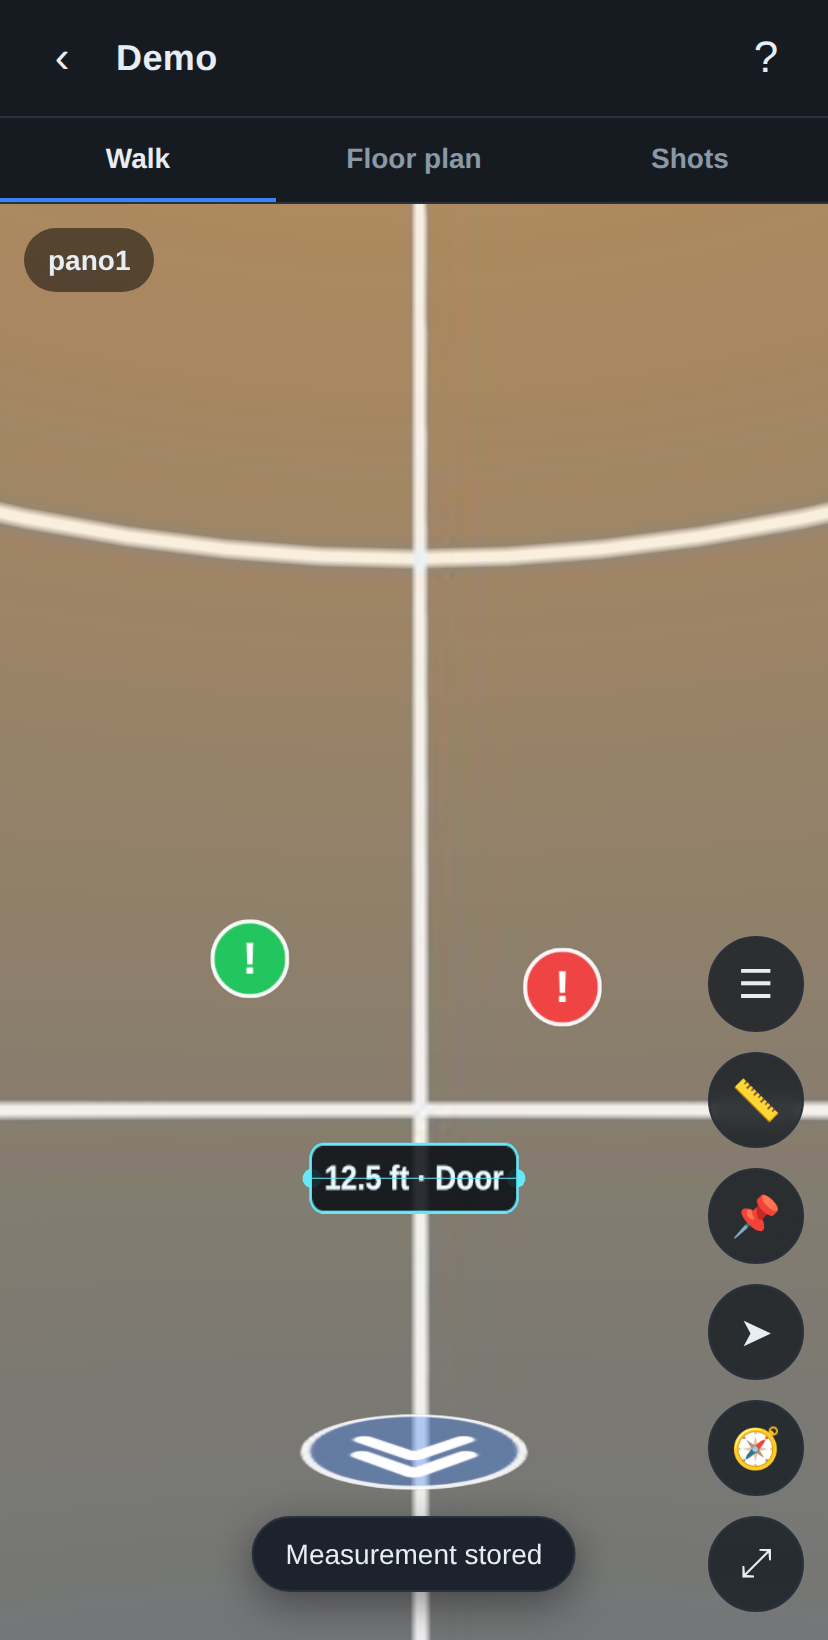
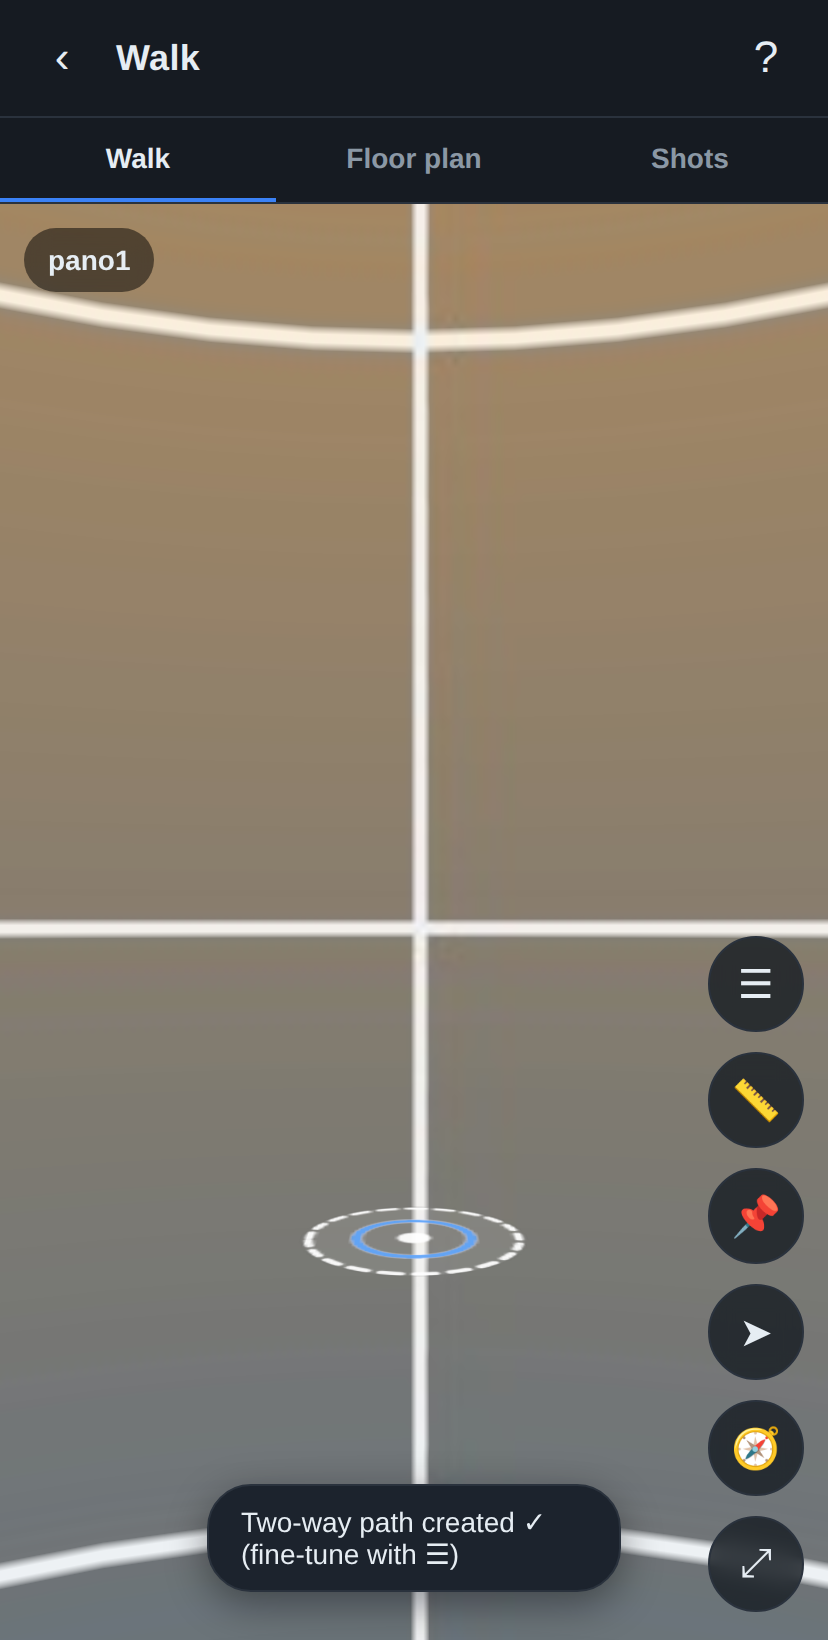
Street-View-style walk: floor reticle + glide transitions
Make the walkthrough feel like the panorama mode in the reference:
- Navigation markers are now round floor "reticles" (dashed outer ring,
  solid blue inner ring, center dot) lying flat on the ground — a clear
  "move here" target, replacing the chevron arrows.
- Tapping a target (and the Back button) now glides to the next spot:
  a quick zoom toward the travel direction + fade to black, swap the
  panorama, then settle in slightly wide — instead of a hard cut.
- Implemented with a per-frame FOV/look tween in the viewer and a CSS
  fade overlay; only runs while actively walking (tour view).
- Help/README wording updated (arrows → floor targets); cache bumped v5.

Verified in headless Chromium: reticle renders on the floor, tapping it
transitions pano1→pano2 (fade reaches full black mid-move), Back
transitions pano2→pano1, no console errors.

Claude-Session: https://claude.ai/code/session_01UnYwW7nPprTG8GZMU1x3z3

diff --git a/js/viewer.js b/js/viewer.js
@@ -76,10 +76,47 @@ export class PanoramaViewer {
     this._gyroEnabled = false;
     this._gyroQuat = new THREE.Quaternion();
 
+    // Fade overlay for Street-View-style move transitions.
+    this._fadeEl = document.createElement('div');
+    Object.assign(this._fadeEl.style, {
+      position: 'absolute', inset: '0', background: '#000', opacity: '0',
+      pointerEvents: 'none', transition: 'opacity 260ms ease', zIndex: '5',
+    });
+    if (this.canvas.parentElement) this.canvas.parentElement.appendChild(this._fadeEl);
+    this._tween = null;
+
     this._bindInput();
     this._resize();
     this._running = false;
     window.addEventListener('resize', () => this._resize());
+  }
+
+  /* ---- Street-View-style move transition ---- */
+  _fade(to) { if (this._fadeEl) this._fadeEl.style.opacity = String(to); }
+
+  // Zoom toward the travel direction + fade to black. Resolves when dark.
+  moveOut(yaw, pitch) {
+    const yawTo = this.yaw + shortestAngle(this.yaw, yaw);
+    this._fade(1);
+    return new Promise((resolve) => {
+      this._tween = { fovFrom: this.fov, fovTo: 36, yawFrom: this.yaw, yawTo,
+        pitchFrom: this.pitch, pitchTo: pitch, t0: performance.now(), dur: 300 };
+      setTimeout(() => {
+        this.fov = 36; this.camera.fov = 36; this.camera.updateProjectionMatrix();
+        this._tween = null; resolve();
+      }, 300);
+    });
+  }
+  // Arrive slightly wide, settle to normal, and fade back in.
+  moveIn() {
+    this.fov = 86; this.camera.fov = 86; this.camera.updateProjectionMatrix();
+    this._tween = { fovFrom: 86, fovTo: 70, yawFrom: this.yaw, yawTo: this.yaw,
+      pitchFrom: this.pitch, pitchTo: this.pitch, t0: performance.now(), dur: 340 };
+    this._fade(0);
+    setTimeout(() => {
+      this.fov = 70; this.camera.fov = 70; this.camera.updateProjectionMatrix();
+      this._tween = null;
+    }, 350);
   }
 
   /* -------------------- lifecycle -------------------- */
@@ -176,24 +213,35 @@ export class PanoramaViewer {
   }
 
   _navTexture() {
-    const s = 256;
+    // Street-View-style floor reticle: a dashed outer ring, a solid inner
+    // ring, and a center dot — reads as a "move here" target on the ground.
+    const s = 256, cx = s / 2, cy = s / 2;
     const c = document.createElement('canvas'); c.width = c.height = s;
     const ctx = c.getContext('2d');
     ctx.clearRect(0, 0, s, s);
-    // soft ring
-    ctx.beginPath(); ctx.arc(s/2, s/2, s*0.42, 0, Math.PI*2);
-    ctx.fillStyle = 'rgba(59,130,246,0.35)'; ctx.fill();
-    ctx.lineWidth = 10; ctx.strokeStyle = 'rgba(255,255,255,0.9)'; ctx.stroke();
-    // double chevron pointing "up" in texture (=> outward along yaw)
-    ctx.strokeStyle = '#fff'; ctx.lineWidth = 22; ctx.lineCap = 'round'; ctx.lineJoin = 'round';
-    for (let i = 0; i < 2; i++) {
-      const off = i * 46;
-      ctx.beginPath();
-      ctx.moveTo(s*0.30, s*0.60 - off);
-      ctx.lineTo(s*0.50, s*0.40 - off);
-      ctx.lineTo(s*0.70, s*0.60 - off);
-      ctx.stroke();
-    }
+    ctx.lineCap = 'round';
+
+    // faint filled disc for presence on busy floors
+    ctx.beginPath(); ctx.arc(cx, cy, s * 0.46, 0, Math.PI * 2);
+    ctx.fillStyle = 'rgba(255,255,255,0.08)'; ctx.fill();
+
+    // dashed outer ring
+    ctx.save();
+    ctx.setLineDash([18, 16]);
+    ctx.lineWidth = 10;
+    ctx.strokeStyle = 'rgba(255,255,255,0.95)';
+    ctx.beginPath(); ctx.arc(cx, cy, s * 0.44, 0, Math.PI * 2); ctx.stroke();
+    ctx.restore();
+
+    // solid inner ring (slight blue)
+    ctx.lineWidth = 12;
+    ctx.strokeStyle = 'rgba(96,165,250,0.95)';
+    ctx.beginPath(); ctx.arc(cx, cy, s * 0.24, 0, Math.PI * 2); ctx.stroke();
+
+    // center dot
+    ctx.beginPath(); ctx.arc(cx, cy, s * 0.07, 0, Math.PI * 2);
+    ctx.fillStyle = 'rgba(255,255,255,0.95)'; ctx.fill();
+
     const t = new THREE.CanvasTexture(c); t.colorSpace = THREE.SRGBColorSpace;
     return t;
   }
@@ -449,6 +497,17 @@ export class PanoramaViewer {
   }
 
   _update() {
+    if (this._tween) {
+      const tw = this._tween;
+      const k = Math.min(1, (performance.now() - tw.t0) / tw.dur);
+      const e = k < 0.5 ? 2 * k * k : 1 - Math.pow(-2 * k + 2, 2) / 2; // easeInOut
+      this.fov = lerp(tw.fovFrom, tw.fovTo, e);
+      if (!this._gyroEnabled) {
+        this.yaw = lerp(tw.yawFrom, tw.yawTo, e);
+        this.pitch = lerp(tw.pitchFrom, tw.pitchTo, e);
+      }
+      this.camera.fov = this.fov; this.camera.updateProjectionMatrix();
+    }
     if (this._gyroEnabled) this.camera.quaternion.copy(this._gyroQuat);
     else this.camera.lookAt(dirFromYawPitch(this.yaw, this.pitch));
   }
@@ -460,6 +519,14 @@ export class PanoramaViewer {
     if (this.currentTexture) this.currentTexture.dispose();
     this.renderer.dispose();
   }
+}
+
+function lerp(a, b, t) { return a + (b - a) * t; }
+function shortestAngle(from, to) {
+  let d = (to - from) % (Math.PI * 2);
+  if (d > Math.PI) d -= Math.PI * 2;
+  if (d < -Math.PI) d += Math.PI * 2;
+  return d;
 }
 
 function roundRect(ctx, x, y, w, h, r) {

diff --git a/js/ui.js b/js/ui.js
@@ -97,10 +97,10 @@ export function showHelp() {
       <p><strong>1. Shoot your 360s.</strong> Use the Insta360 app to capture each spot. Stand in the middle of a room or hallway, one shot every few metres.</p>
       <p><strong>2. Export as equirectangular.</strong> In the Insta360 app, export/share each shot as a flat <em>equirectangular</em> photo (the 2:1 "stretched" image) to your phone's photos.</p>
       <p><strong>3. Import here.</strong> Open a tour → <em>Shots</em> → <strong>+</strong>, and pick the photos (several at once is fine).</p>
-      <p><strong>4. Connect the walk (two-way).</strong> In a shot, tap <code>➤</code>, tap the floor toward a doorway, pick the shot through it, then turn to the view you'll see when you arrive and hit <em>✓ Set view</em>. SiteWalk creates the arrow <em>and</em> a matching arrow back. Tap a floor arrow to walk; tap <code>↩</code> (top-left) to step back.</p>
+      <p><strong>4. Connect the walk (two-way).</strong> In a shot, tap <code>➤</code>, tap the floor toward a doorway, pick the shot through it, then turn to the view you'll see when you arrive and hit <em>✓ Set view</em>. SiteWalk creates the path <em>and</em> a matching path back. A <strong>round target appears on the floor</strong> — tap it to glide forward into that spot; tap <code>↩</code> (top-left) to step back.</p>
       <p><strong>5. Notes with priority.</strong> Tap <code>📌</code>, place it, type the note and pick <span style="color:#ef4444">High</span> / <span style="color:#f59e0b">Medium</span> / <span style="color:#22c55e">Low</span> — the pin takes that color.</p>
       <p><strong>6. Measurements.</strong> Tap <code>📏</code>, tap the two ends of what you measured, and log the number + label. It's stored on the shot with a labeled line.</p>
-      <p><strong>7. Delete an arrow.</strong> Long-press a floor arrow to delete it (this direction, or both directions). You can also manage everything from <code>☰</code>.</p>
+      <p><strong>7. Delete a path.</strong> Long-press a floor target to delete it (this direction, or both directions). You can also manage everything from <code>☰</code>.</p>
       <p><strong>8. Manage a stop.</strong> Tap <code>☰</code> to edit/delete any arrow, note or measurement, or to re-set an arrow's arrival view.</p>
       <p><strong>9. Revise a photo.</strong> <em>Shots</em> → ⋮ on a shot → <em>Replace photo</em> keeps all its arrows, notes and floor-plan spot.</p>
       <p><strong>10. Floors.</strong> Use the floor tabs (bookmarks) on <em>Shots</em> and <em>Floor plan</em> to keep each level separate. Tap <em>＋ Floor</em> to add one, then import shots. When you have more than one floor, importing first asks <em>which floor</em> to put the photos on (defaulting to the one you're viewing), so levels never get mixed up. Give each floor its own plan image.</p>

diff --git a/js/app.js b/js/app.js
@@ -340,8 +340,15 @@ async function refreshCurrentScene(view) {
   if (state.tab === 'tour') viewer.start();
 }
 
-async function goToScene(id, view, { record = true } = {}) {
+async function goToScene(id, view, { record = true, transition = false, fromDir = null } = {}) {
   if (record && state.currentSceneId && state.currentSceneId !== id) state.history.push(state.currentSceneId);
+  // Street-View-style glide: zoom toward the travel direction and fade out
+  // before swapping the panorama, then settle in. Only when already walking.
+  const doTransition = transition && viewer && viewer._running && state.tab === 'tour';
+  if (doTransition) {
+    const look = viewer.getLook();
+    await viewer.moveOut(fromDir ? fromDir.yaw : look.yaw, fromDir ? fromDir.pitch : look.pitch);
+  }
   state.currentSceneId = id;
   state.selectedForMap = id;
   // Follow the shot to its floor so the map/grid context stays in sync.
@@ -354,13 +361,14 @@ async function goToScene(id, view, { record = true } = {}) {
   }
   await refreshCurrentScene(view);
   if (state.tab !== 'tour') switchTab('tour');
+  if (doTransition) viewer.moveIn();
   if (floorMap) floorMap.setSelected(id);
 }
 
 function navBack() {
   if (!state.history.length) return;
   const prev = state.history.pop();
-  goToScene(prev, undefined, { record: false });
+  goToScene(prev, undefined, { record: false, transition: true });
 }
 function updateBackButton() { el('btnNavBack').hidden = state.history.length === 0; }
 
@@ -369,7 +377,7 @@ async function onHotspotActivate(data) {
   if (data.type === 'nav') {
     if (data.targetSceneId) {
       const view = (data.landingYaw != null) ? { yaw: data.landingYaw, pitch: data.landingPitch } : undefined;
-      goToScene(data.targetSceneId, view);
+      goToScene(data.targetSceneId, view, { transition: true, fromDir: { yaw: data.yaw, pitch: data.pitch } });
     }
   } else if (data.type === 'note') {
     noteViewModal(data);

diff --git a/service-worker.js b/service-worker.js
@@ -6,7 +6,7 @@
    here. Bump CACHE_VERSION to force clients to update.
    ============================================================ */
 
-const CACHE_VERSION = 'sitewalk-v4';
+const CACHE_VERSION = 'sitewalk-v5';
 const APP_SHELL = [
   './',
   './index.html',

diff --git a/README.md b/README.md
@@ -15,10 +15,12 @@ your phone.
   app to your camera roll, then pick them here (multiple at once).
 - **True 360° viewing** — drag, pinch-to-zoom, or use your phone's motion sensor
   (gyro) to look around each spot.
-- **Walk the space, both ways** — drop a **path arrow** (➤) on the floor toward a
-  doorway and pick the shot through it. SiteWalk creates the forward arrow **and
-  a matching arrow back**, so you're never stuck. A **Back** button (↩) also
-  steps through your history at any time.
+- **Walk the space, both ways** — drop a **floor target** (➤) toward a doorway
+  and pick the shot through it. A Street-View-style **round reticle appears on
+  the ground**; tap it to **glide forward** into that spot (smooth zoom + fade,
+  not a hard jump). SiteWalk creates the forward path **and a matching path
+  back**, so you're never stuck, and a **Back** button (↩) steps through your
+  history anytime.
 - **Choose the arrival view** — when you link two shots you set the exact
   direction you'll be facing when you arrive (and when you come back), so the
   walk flows naturally.
@@ -27,7 +29,7 @@ your phone.
 - **Measurements** — mark two points with the measure tool (📏) and log the
   distance you measured (with your tape/laser) plus a label. Stored on the shot
   as a labeled line.
-- **Delete arrows** — long-press a floor arrow to remove it (this direction or
+- **Delete paths** — long-press a floor target to remove it (this direction or
   both), or manage everything from the ☰ panel.
 - **Manage any stop** — the ☰ panel lists every arrow, note and measurement on a
   shot so you can edit, delete, or re-set an arrow's arrival view.
